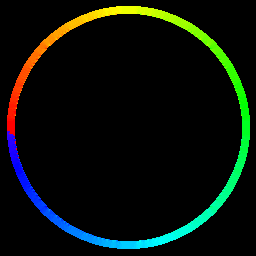
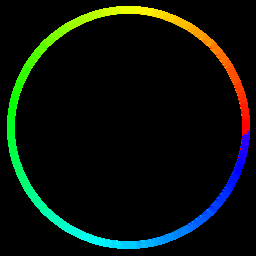
Fix rotation

Changed region(s): [[0.5312, 0.0, 1.0, 0.9688], [0.0, 0.0, 0.4688, 0.9688]]

diff --git a/Assignment 2/SobelGradient/main.cpp b/Assignment 2/SobelGradient/main.cpp
@@ -38,10 +38,8 @@ void colorGradient(Mat src_gray, Mat grad_x, Mat grad_y, Mat &derp, bool table =
             double degs = gradient * 180.0/M_PI;
             
             // since atan gives back between -pi, pi, and we scale 
-            // to degrees and expect 0, 360, so just flip that region 
-            if (degs < 0.0) {
-                degs = 360.0 + degs;
-            }
+            // to degrees and expect 0, 360, so just flip it around
+            degs = 180.0 - degs;
 
             // continuous colored circle
             if (!table) {
